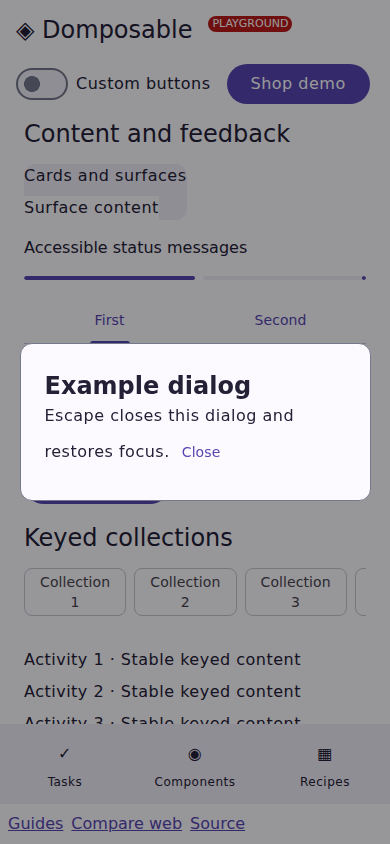
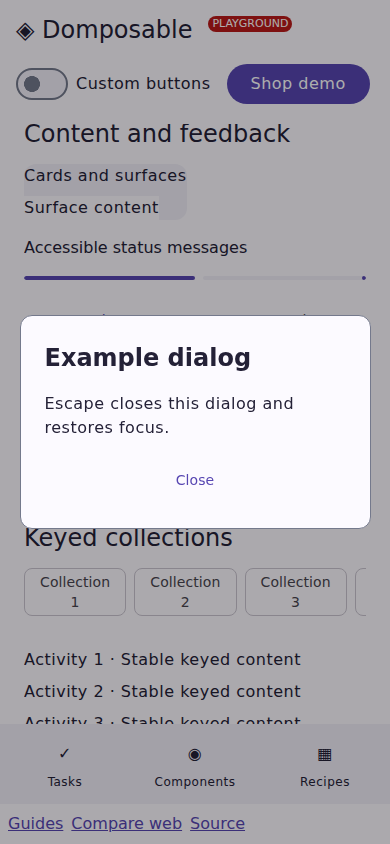
Keep native text rendering stable and review HTML modal captures

Changed region(s): [[0.0308, 0.3697, 0.9538, 0.5545], [0.0308, 0.5237, 0.9538, 0.6469]]

diff --git a/domposable-design-material/src/composeUiMain/kotlin/io/github/samuolis/domposable/material/NativeMaterial.kt b/domposable-design-material/src/composeUiMain/kotlin/io/github/samuolis/domposable/material/NativeMaterial.kt
@@ -429,35 +429,23 @@ actual fun rememberDomposableMaterialComponents(): DomposableComponents =
                     }
 
                 val renderText: @Composable () -> Unit = {
-                    if (props.runs.isEmpty()) {
-                        Text(
-                            props.text,
-                            textModifier,
-                            color = props.color?.let { Color(it.argb) } ?: Color.Unspecified,
-                            style = style,
-                            minLines = appearance.minLines,
-                            maxLines = appearance.maxLines ?: Int.MAX_VALUE,
-                            overflow = appearance.overflow.nativeOverflow(),
-                        )
-                    } else {
-                        Text(
-                            props.annotatedText(
-                                if (style.color ==
-                                    Color.Unspecified
-                                ) {
-                                    androidx.compose.material3.LocalContentColor.current
-                                } else {
-                                    style.color
-                                },
-                            ),
-                            textModifier,
-                            color = props.color?.let { Color(it.argb) } ?: Color.Unspecified,
-                            style = style,
-                            minLines = appearance.minLines,
-                            maxLines = appearance.maxLines ?: Int.MAX_VALUE,
-                            overflow = appearance.overflow.nativeOverflow(),
-                        )
-                    }
+                    Text(
+                        props.annotatedText(
+                            if (style.color ==
+                                Color.Unspecified
+                            ) {
+                                androidx.compose.material3.LocalContentColor.current
+                            } else {
+                                style.color
+                            },
+                        ),
+                        textModifier,
+                        color = props.color?.let { Color(it.argb) } ?: Color.Unspecified,
+                        style = style,
+                        minLines = appearance.minLines,
+                        maxLines = appearance.maxLines ?: Int.MAX_VALUE,
+                        overflow = appearance.overflow.nativeOverflow(),
+                    )
                 }
                 if (appearance.selectable == true) SelectionContainer { renderText() } else renderText()
             },
